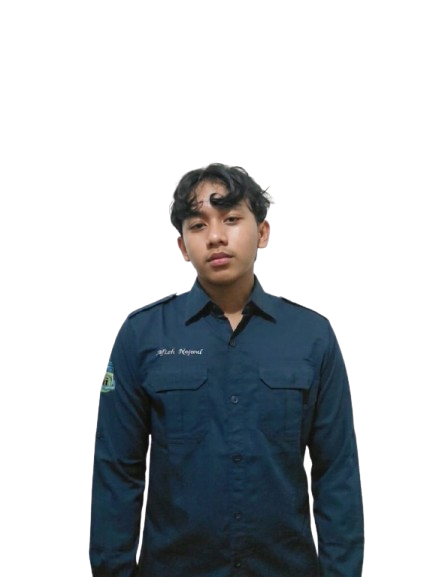
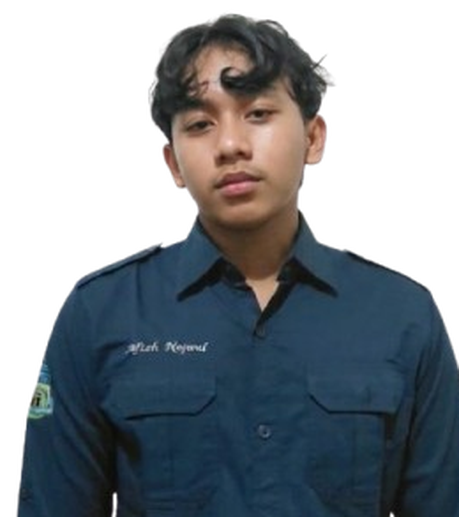
ui(mentor): match Hafizh portrait size/position to Resti and remove role badge texts

diff --git a/index.html b/index.html
@@ -560,20 +560,16 @@
         <div id="tab-mentor" class="guide-content hidden">
           <p class="pg-hint">Butuh teman diskusi soal jurusan atau adaptasi di Bandung? Hubungi narahubung.</p>
           <div class="grid grid-cols-1 lg:grid-cols-2 gap-4 sm:gap-5">
-            <!-- Card Pendamping 1: Hafizh Najwal (Ketua Umum) -->
+            <!-- Card Pendamping 1: Hafizh Najwal -->
             <div
               class="relative overflow-hidden bg-gradient-to-br from-[#0f2e59] to-[#1b4a88] text-white rounded-2xl p-4 sm:p-5 border border-[#0f2e59]/20 shadow-md w-full">
               <img src="assets/pengurus/hafizh-najwal-nobg.png" alt="Hafizh Najwal"
-                class="absolute -right-2 sm:right-1 top-1 bottom-0 h-[calc(100%-0.25rem)] w-auto max-w-none object-contain object-bottom pointer-events-none select-none z-0"
+                class="absolute -right-3 sm:-right-1 top-1 bottom-0 h-[calc(100%-0.25rem)] w-auto max-w-none object-contain object-bottom pointer-events-none select-none z-0"
                 style="-webkit-mask-image: linear-gradient(to bottom, #000 45%, rgba(0, 0, 0, 0.2) 100%); mask-image: linear-gradient(to bottom, #000 45%, rgba(0, 0, 0, 0.2) 100%);" />
 
               <div class="relative z-10 pr-32 sm:pr-40">
-                <span
-                  class="inline-block text-[10px] font-bold uppercase tracking-widest text-amber-300 bg-white/10 px-2.5 py-0.5 rounded-full">
-                  Ketua Umum
-                </span>
-                <h4 class="font-bold text-sm sm:text-base mt-1.5">Hafizh Najwal</h4>
-                <p class="text-[11px] text-slate-200 mt-0.5 leading-relaxed">
+                <h4 class="font-bold text-base sm:text-lg text-white">Hafizh Najwal</h4>
+                <p class="text-[11px] text-slate-200 mt-1 leading-relaxed">
                   Pendampingan santri baru, konsultasi jurusan, dan informasi perkuliahan di Bandung.
                 </p>
 
@@ -588,7 +584,7 @@
               </div>
             </div>
 
-            <!-- Card Pendamping 2: Resti Fujianti (Bendahara) -->
+            <!-- Card Pendamping 2: Resti Fujianti -->
             <div
               class="relative overflow-hidden bg-gradient-to-br from-[#0f2e59] to-[#1b4a88] text-white rounded-2xl p-4 sm:p-5 border border-[#0f2e59]/20 shadow-md w-full">
               <img src="assets/pengurus/resti-fujianti-nobg.png" alt="Resti Fujianti"
@@ -596,12 +592,8 @@
                 style="-webkit-mask-image: linear-gradient(to bottom, #000 45%, rgba(0, 0, 0, 0.2) 100%); mask-image: linear-gradient(to bottom, #000 45%, rgba(0, 0, 0, 0.2) 100%);" />
 
               <div class="relative z-10 pr-32 sm:pr-40">
-                <span
-                  class="inline-block text-[10px] font-bold uppercase tracking-widest text-amber-300 bg-white/10 px-2.5 py-0.5 rounded-full">
-                  Bendahara
-                </span>
-                <h4 class="font-bold text-sm sm:text-base mt-1.5">Resti Fujianti</h4>
-                <p class="text-[11px] text-slate-200 mt-0.5 leading-relaxed">
+                <h4 class="font-bold text-base sm:text-lg text-white">Resti Fujianti</h4>
+                <p class="text-[11px] text-slate-200 mt-1 leading-relaxed">
                   Konsultasi adaptasi kampus Bandung &amp; pendampingan khusus santri putri PMUQI.
                 </p>
 
